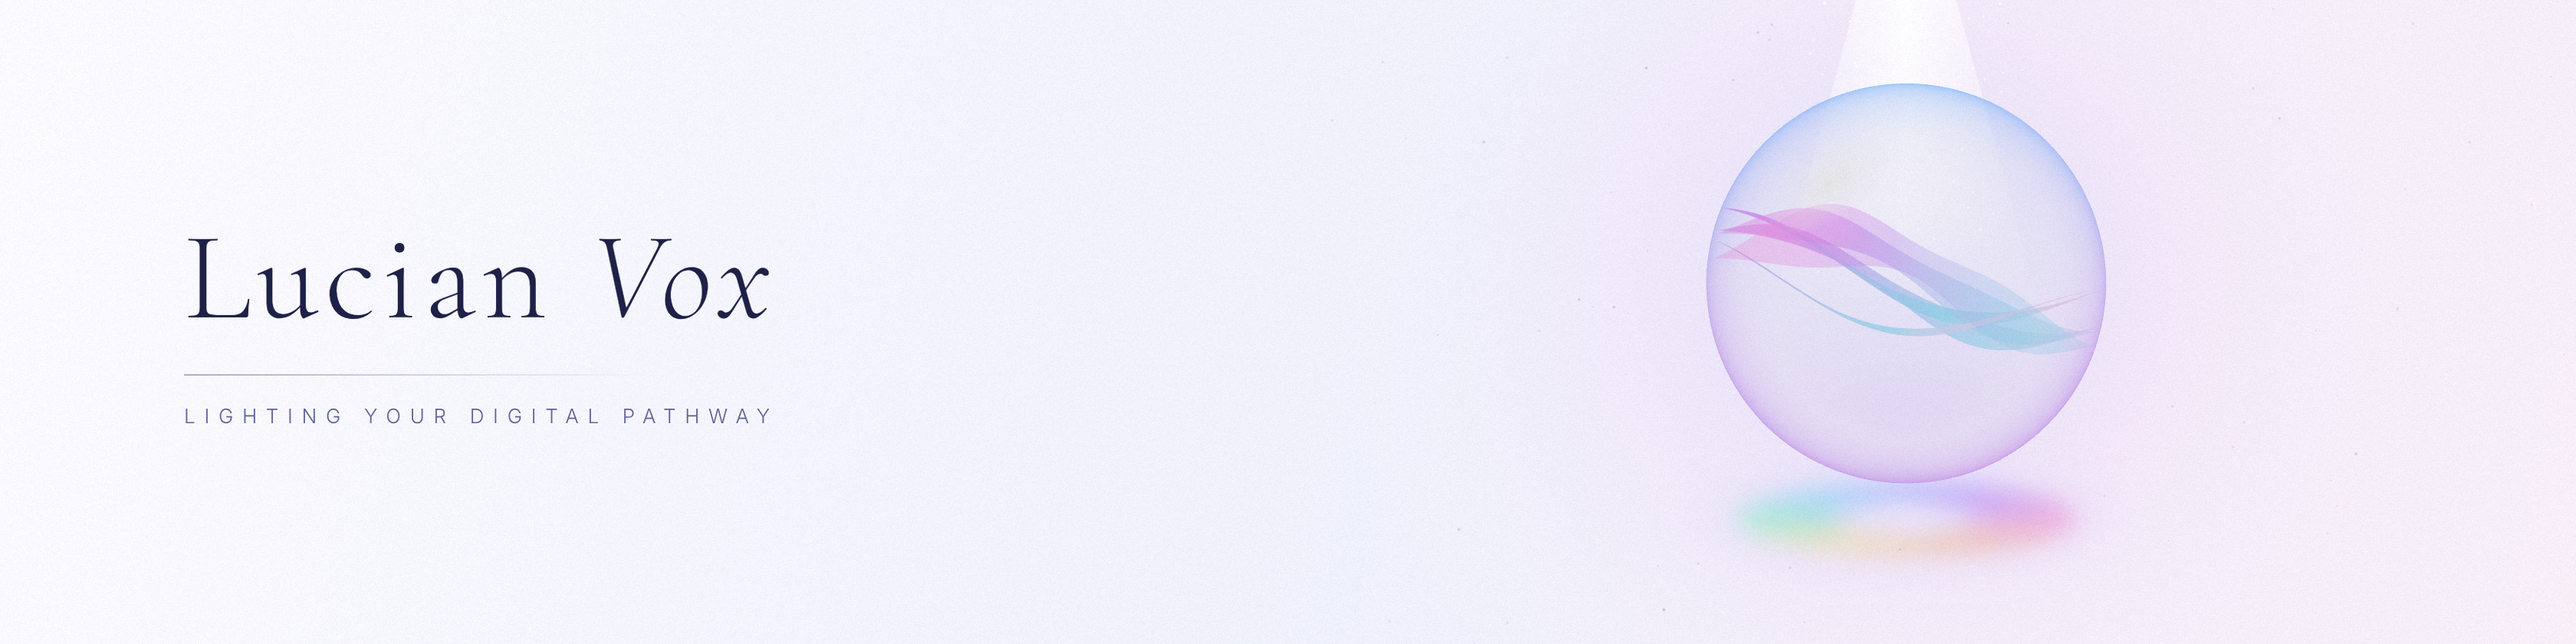
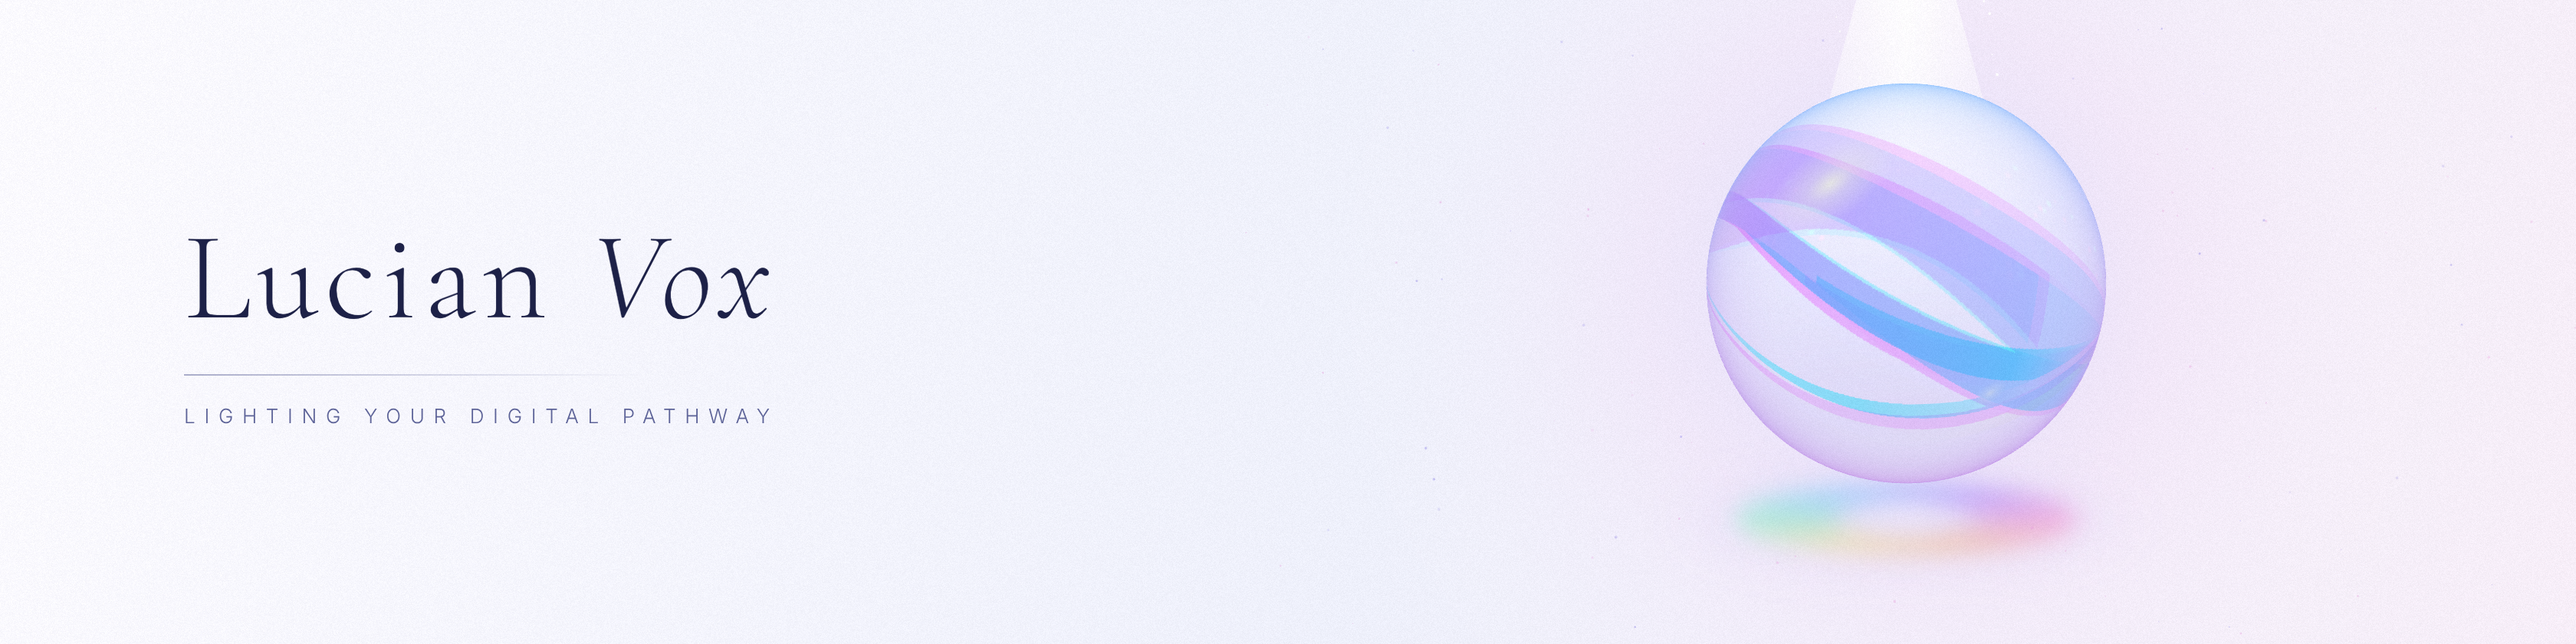
Orb: real refraction shader with chromatic dispersion
Claude-Session: https://claude.ai/code/session_01NNfMayHtDVknSJbkkHba8P

Changed region(s): [[0.6562, 0.2167, 0.8125, 0.681]]

diff --git a/rebrand/orb3d_v1.html b/rebrand/orb3d_v1.html
@@ -1,0 +1,78 @@
+<!doctype html><html><head><meta charset="utf-8">
+<link href="https://fonts.googleapis.com/css2?family=Cormorant+Garamond:ital,wght@0,300;1,300&family=Inter:wght@300&display=swap" rel="stylesheet">
+<style>body{margin:0;background:#fff}.c{position:relative;overflow:hidden;color:#1d2147;font-family:Inter,sans-serif}
+canvas{position:absolute;inset:0;width:100%;height:100%}.t{position:absolute;z-index:2}
+.n{font-family:'Cormorant Garamond',serif;font-weight:300;letter-spacing:.05em;line-height:1}
+.cap{letter-spacing:.45em;text-transform:uppercase;font-weight:300;color:#5d6398}
+.rule{height:1px;background:linear-gradient(90deg,rgba(93,99,152,.5),transparent)}</style>
+<script type="importmap">{"imports":{"three":"https://unpkg.com/three@0.160.0/build/three.module.js","three/addons/":"https://unpkg.com/three@0.160.0/examples/jsm/"}}</script>
+</head><body>
+<script type="module">
+import * as THREE from 'three';
+import {RoomEnvironment} from 'three/addons/environments/RoomEnvironment.js';
+const R=(a,b)=>a+Math.random()*(b-a);
+function bg(w,h,X,Y,r){const c=document.createElement('canvas');c.width=w;c.height=h;const x=c.getContext('2d');
+ let g=x.createLinearGradient(0,0,w,h);g.addColorStop(0,'#fbfaff');g.addColorStop(.55,'#eef0fb');g.addColorStop(1,'#f7eef8');x.fillStyle=g;x.fillRect(0,0,w,h);
+ g=x.createRadialGradient(X,Y,0,X,Y,r*3);g.addColorStop(0,'rgba(190,195,255,.5)');g.addColorStop(.45,'rgba(240,210,245,.25)');g.addColorStop(1,'rgba(255,255,255,0)');x.fillStyle=g;x.fillRect(0,0,w,h);
+ // beam
+ {const b=document.createElement('canvas');b.width=w;b.height=h;const bx=b.getContext('2d');bx.translate(X,0);let bg2=bx.createLinearGradient(-r*.7,0,r*.7,0);bg2.addColorStop(0,'rgba(255,255,255,0)');bg2.addColorStop(.5,'rgba(255,255,255,.9)');bg2.addColorStop(1,'rgba(255,255,255,0)');bx.fillStyle=bg2;bx.beginPath();bx.moveTo(-r*.25,0);bx.lineTo(r*.25,0);bx.lineTo(r*.8,Y+r*.6);bx.lineTo(-r*.8,Y+r*.6);bx.fill();
+ bx.setTransform(1,0,0,1,0,0);bx.globalCompositeOperation='destination-in';const vg=bx.createLinearGradient(0,0,0,Y+r*.6);vg.addColorStop(0,'#000');vg.addColorStop(.5,'rgba(0,0,0,.8)');vg.addColorStop(1,'rgba(0,0,0,0)');bx.fillStyle=vg;bx.fillRect(0,0,w,h);x.drawImage(b,0,0)}
+ // rainbow caustic pool under orb (light through glass)
+ const py=Y+r*1.18;x.save();x.translate(X,py);x.scale(1,.2);x.filter=`blur(${r*.06}px)`;
+ const cg=x.createConicGradient(0,0,0);['#ff7ac8','#ffb36b','#fff07a','#7affc1','#6fd3ff','#9b7bff','#ff7ac8'].forEach((c,i,a)=>cg.addColorStop(i/(a.length-1),c));
+ x.globalAlpha=.55;x.fillStyle=cg;x.beginPath();x.arc(0,0,r*.85,0,7);x.arc(0,0,r*.35,0,7,true);x.fill();
+ x.globalAlpha=1;g=x.createRadialGradient(0,0,0,0,0,r*.45);g.addColorStop(0,'rgba(255,255,255,1)');g.addColorStop(1,'rgba(255,255,255,0)');x.fillStyle=g;x.beginPath();x.arc(0,0,r*.5,0,7);x.fill();
+ x.filter=`blur(${r*.12}px)`;g=x.createRadialGradient(0,0,r*.6,0,0,r*1.2);g.addColorStop(0,'rgba(160,140,240,.18)');g.addColorStop(1,'rgba(160,140,240,0)');x.fillStyle=g;x.beginPath();x.arc(0,0,r*1.2,0,7);x.fill();x.restore();
+ for(let i=0;i<160;i++){const a=R(0,6.28),d=r*R(1.2,3.5);x.fillStyle=`rgba(${Math.random()<.5?'150,140,230':'230,160,220'},${R(.15,.5)})`;x.beginPath();x.arc(X+Math.cos(a)*d,Y+Math.sin(a)*d,R(.5,1.8),0,7);x.fill()}
+ // dust in beam
+ for(let i=0;i<90;i++){x.fillStyle=`rgba(255,255,255,${R(.4,1)})`;x.beginPath();x.arc(X+R(-r*.5,r*.5),R(0,Y),R(.6,2),0,7);x.fill()}
+ return c}
+function ribbonGeo(r,phase,tilt,width){const N=240,pos=[],col=[],idx=[];const cols=[new THREE.Color('#ff4fb4'),new THREE.Color('#8f5cff'),new THREE.Color('#2fbfff'),new THREE.Color('#ff9ad8')];
+ for(let i=0;i<=N;i++){const t=i/N,xx=-.97+t*1.94;const lim=Math.sqrt(Math.max(0,1-xx*xx))*.92;
+  const cy=Math.sin(t*5+phase)*.2+tilt,cz=Math.cos(t*4+phase)*.25*lim;const wd=width*Math.sin(t*Math.PI)*(1+.5*Math.sin(t*9+phase));
+  for(const sd of[-1,1]){let y=cy+wd*sd*.5;y=Math.max(-lim,Math.min(lim,y));pos.push(xx,y,cz+sd*wd*.3);const k=(t*2.2+phase*.4)%4,i0=Math.floor(k),f=k-i0;const c=cols[i0%4].clone().lerp(cols[(i0+1)%4],f);col.push(c.r,c.g,c.b)}
+  if(i<N){const b=i*2;idx.push(b,b+1,b+2,b+1,b+3,b+2)}}
+ const g=new THREE.BufferGeometry();g.setAttribute('position',new THREE.Float32BufferAttribute(pos,3));g.setAttribute('color',new THREE.Float32BufferAttribute(col,3));g.setIndex(idx);return g}
+const renderer=new THREE.WebGLRenderer({antialias:true,alpha:false,preserveDrawingBuffer:true});renderer.toneMapping=THREE.ACESFilmicToneMapping;renderer.toneMappingExposure=1.05;renderer.outputColorSpace=THREE.SRGBColorSpace;
+const pmrem=new THREE.PMREMGenerator(renderer);
+function envTex(){const c=document.createElement('canvas');c.width=1024;c.height=512;const x=c.getContext('2d');let g=x.createLinearGradient(0,0,0,512);g.addColorStop(0,'#ffffff');g.addColorStop(.45,'#f1eeff');g.addColorStop(.6,'#e6dcfb');g.addColorStop(1,'#f8eaf4');x.fillStyle=g;x.fillRect(0,0,1024,512);
+ // softbox windows
+ x.fillStyle='#ffffff';[[150,90,180,120],[620,70,260,90],[820,260,120,160]].forEach(([a,b,c2,d])=>{x.filter='blur(6px)';x.fillRect(a,b,c2,d)});
+ x.filter='blur(30px)';[['#ffb6e6',300,300],['#a6e6ff',520,320],['#c4b0ff',760,330]].forEach(([c2,a,b])=>{x.fillStyle=c2;x.beginPath();x.arc(a,b,80,0,7);x.fill()});
+ const t=new THREE.CanvasTexture(c);t.mapping=THREE.EquirectangularReflectionMapping;t.colorSpace=THREE.SRGBColorSpace;return pmrem.fromEquirectangular(t).texture}
+const env=envTex();
+function mk(id,W,H,ox,oy,or,html){const el=document.createElement('div');el.className='c';el.id=id;el.style.cssText=`width:${W}px;height:${H}px`;const out=document.createElement('canvas');el.appendChild(out);document.body.appendChild(el);
+ const s=2,w=W*s,h=H*s,X=w*ox,Y=h*oy,r=h*or;out.width=w;out.height=h;
+ const bgc=bg(w,h,X,Y,r);const tex=new THREE.CanvasTexture(bgc);tex.colorSpace=THREE.SRGBColorSpace;
+ renderer.setPixelRatio(1);renderer.setSize(w,h,false);
+ const scene=new THREE.Scene();scene.background=tex;scene.environment=env;
+ const cam=new THREE.OrthographicCamera(0,w,0,-h,-5000,5000);cam.position.z=2000;
+ const grp=new THREE.Group();grp.position.set(X,-Y,0);grp.scale.setScalar(r);scene.add(grp);
+ const glass=new THREE.MeshPhysicalMaterial({color:0xf4f2ff,metalness:0,roughness:0,transparent:true,opacity:.28,iridescence:1,iridescenceIOR:1.4,iridescenceThicknessRange:[250,650],clearcoat:1,clearcoatRoughness:0,envMapIntensity:1.6,depthWrite:false,side:THREE.FrontSide});
+ const back=new THREE.MeshPhysicalMaterial({color:0xe9e4ff,roughness:0,transparent:true,opacity:.22,iridescence:1,iridescenceThicknessRange:[300,700],side:THREE.BackSide,depthWrite:false,envMapIntensity:1.4});
+ const bm=new THREE.Mesh(new THREE.SphereGeometry(1,128,96),back);bm.renderOrder=1;grp.add(bm);
+ const fm=new THREE.Mesh(new THREE.SphereGeometry(1,128,96),glass);fm.renderOrder=20;grp.add(fm);
+ const rim=new THREE.ShaderMaterial({transparent:true,depthWrite:false,blending:THREE.NormalBlending,uniforms:{},vertexShader:'varying vec3 n;varying vec3 v;void main(){n=normalize(normalMatrix*normal);vec4 p=modelViewMatrix*vec4(position,1.);v=normalize(-p.xyz);gl_Position=projectionMatrix*p;}',
+  fragmentShader:'varying vec3 n;varying vec3 v;void main(){float e=1.-abs(n.z);float f=pow(e,2.2)*.75+smoothstep(.9,1.,e)*.3;vec3 c=mix(vec3(.95,.55,.85),vec3(.45,.7,1.),n.y*.5+.5);c=mix(c,vec3(.55,.5,.95),smoothstep(.2,-.8,n.y)*.5);float sh=smoothstep(.3,-1.,n.y)*.18*(1.-e);gl_FragColor=vec4(mix(c,vec3(.6,.55,.9),sh),max(f,sh));}'});
+ const rmM=new THREE.Mesh(new THREE.SphereGeometry(1.001,128,96),rim);rmM.renderOrder=21;grp.add(rmM);
+ const rm=new THREE.MeshBasicMaterial({vertexColors:true,transparent:true,opacity:.5,side:THREE.DoubleSide,depthWrite:false,depthTest:false});
+ [[0,.0,.36,.35],[.5,.03,.22,.5],[1.0,-.03,.13,.7],[1.6,.05,.06,.9],[2.4,-.06,.03,.8]].forEach(([p,t,wd,op])=>{const mm=rm.clone();mm.opacity=op;const m=new THREE.Mesh(ribbonGeo(1,p,t,wd),mm);m.renderOrder=10;m.rotation.set(.15,0,-.14);grp.add(m)});
+ // soft specular highlight
+ const hc=document.createElement('canvas');hc.width=hc.height=256;const hx=hc.getContext('2d');const hg=hx.createRadialGradient(128,128,0,128,128,128);hg.addColorStop(0,'rgba(255,255,255,1)');hg.addColorStop(.35,'rgba(255,255,255,.45)');hg.addColorStop(1,'rgba(255,255,255,0)');hx.fillStyle=hg;hx.fillRect(0,0,256,256);
+ const hs=new THREE.Mesh(new THREE.PlaneGeometry(.75,.36),new THREE.MeshBasicMaterial({map:new THREE.CanvasTexture(hc),transparent:true,depthTest:false,depthWrite:false}));hs.position.set(-.38,.5,1.1);hs.rotation.z=.6;hs.renderOrder=30;grp.add(hs);
+ const hs2=hs.clone();hs2.scale.set(.25,.25,1);hs2.position.set(.42,-.55,1.1);hs2.material=hs.material.clone();hs2.material.opacity=.5;grp.add(hs2);
+ const soft=new THREE.MeshBasicMaterial({vertexColors:true,transparent:true,opacity:.7,side:THREE.DoubleSide,depthWrite:false,depthTest:false});
+ 
+ renderer.render(scene,cam);
+ const x=out.getContext('2d');x.drawImage(renderer.domElement,0,0);
+ const d=x.getImageData(0,0,w,h);for(let i=0;i<d.data.length;i+=4){const n=(Math.random()-.5)*10;d.data[i]+=n;d.data[i+1]+=n;d.data[i+2]+=n}x.putImageData(d,0,0);
+ if(html)el.insertAdjacentHTML('beforeend',html);tex.dispose()}
+const L=s=>`<div class="n" style="font-size:${s}px">Lucian <i>Vox</i></div>`;
+const TAG='Lighting your digital pathway';
+mk('banner_large',1680,420,.74,.44,.31,`<div class="t" style="left:120px;top:140px">${L(82)}<div class="rule" style="width:300px;margin:22px 0 18px"></div><div class="cap" style="font-size:13px">${TAG}</div></div>`);
+mk('banner_mini',600,150,.8,.44,.3,`<div class="t" style="left:46px;top:46px">${L(36)}<div class="cap" style="font-size:7px;margin-top:12px">${TAG}</div></div>`);
+mk('icon',500,500,.5,.44,.3,'');
+mk('icon_mono',500,500,.5,.46,.32,`<div class="t n" style="left:0;right:0;top:${500*.46-64}px;text-align:center;font-size:128px;color:#fff;text-shadow:0 0 10px rgba(90,70,200,.9),0 0 30px rgba(120,90,230,.7)"><i>V</i></div>`);
+mk('social_header',750,250,.5,.38,.24,`<div class="t" style="width:100%;bottom:20px;text-align:center"><div class="n" style="font-size:30px">Lucian <i>Vox</i></div><div class="cap" style="font-size:8px;margin-top:8px">${TAG}</div></div>`);
+window.DONE=1;
+</script></body></html>

diff --git a/rebrand/orb3d.html b/rebrand/orb3d.html
@@ -48,22 +48,35 @@ function mk(id,W,H,ox,oy,or,html){const el=document.createElement('div');el.clas
  const scene=new THREE.Scene();scene.background=tex;scene.environment=env;
  const cam=new THREE.OrthographicCamera(0,w,0,-h,-5000,5000);cam.position.z=2000;
  const grp=new THREE.Group();grp.position.set(X,-Y,0);grp.scale.setScalar(r);scene.add(grp);
- const glass=new THREE.MeshPhysicalMaterial({color:0xf4f2ff,metalness:0,roughness:0,transparent:true,opacity:.28,iridescence:1,iridescenceIOR:1.4,iridescenceThicknessRange:[250,650],clearcoat:1,clearcoatRoughness:0,envMapIntensity:1.6,depthWrite:false,side:THREE.FrontSide});
+ const glass=new THREE.MeshPhysicalMaterial({color:0xf4f2ff,metalness:0,roughness:0,transparent:true,opacity:.14,iridescence:1,iridescenceIOR:1.4,iridescenceThicknessRange:[250,650],clearcoat:1,clearcoatRoughness:0,envMapIntensity:1.6,depthWrite:false,side:THREE.FrontSide});
  const back=new THREE.MeshPhysicalMaterial({color:0xe9e4ff,roughness:0,transparent:true,opacity:.22,iridescence:1,iridescenceThicknessRange:[300,700],side:THREE.BackSide,depthWrite:false,envMapIntensity:1.4});
- const bm=new THREE.Mesh(new THREE.SphereGeometry(1,128,96),back);bm.renderOrder=1;grp.add(bm);
- const fm=new THREE.Mesh(new THREE.SphereGeometry(1,128,96),glass);fm.renderOrder=20;grp.add(fm);
+ const sceneA=new THREE.Scene();sceneA.background=tex;const grpA=new THREE.Group();grpA.position.copy(grp.position);grpA.scale.copy(grp.scale);sceneA.add(grpA);
+ const rt=new THREE.WebGLRenderTarget(w*2,h*2);rt.texture.colorSpace=THREE.SRGBColorSpace;rt.texture.generateMipmaps=false;
+ const refr=new THREE.ShaderMaterial({toneMapped:false,uniforms:{t:{value:rt.texture},res:{value:new THREE.Vector2(w,h)},rpx:{value:r}},
+  vertexShader:'varying vec3 vN;void main(){vN=normalize(normalMatrix*normal);gl_Position=projectionMatrix*modelViewMatrix*vec4(position,1.);}',
+  fragmentShader:`uniform sampler2D t;uniform vec2 res;uniform float rpx;varying vec3 vN;
+  vec3 smp(float ior){vec3 n=normalize(vN);vec3 d=refract(vec3(0.,0.,-1.),n,1./ior);d=refract(d,-n*vec3(1.,1.,1.),ior);
+   float z=n.z;vec2 off=-n.xy*rpx*(1.-1./ior)*2.2*(0.6+0.4*z);return texture2D(t,(gl_FragCoord.xy+off)/res).rgb;}
+  void main(){vec3 n=normalize(vN);float r=smp(1.45).r,g=smp(1.5).g,b=smp(1.56).b;vec3 c=vec3(r,g,b);
+   float e=1.-n.z;c=mix(c,vec3(.93,.92,1.),.06+.25*pow(e,3.));c*=1.0+.06*n.y;
+   gl_FragColor=vec4(c,1.);
+   #include <colorspace_fragment>
+  }`});
+ const rs=new THREE.Mesh(new THREE.SphereGeometry(1,160,120),refr);rs.renderOrder=5;grp.add(rs);
+ const fm=new THREE.Mesh(new THREE.SphereGeometry(1,128,96),glass);fm.renderOrder=20;
  const rim=new THREE.ShaderMaterial({transparent:true,depthWrite:false,blending:THREE.NormalBlending,uniforms:{},vertexShader:'varying vec3 n;varying vec3 v;void main(){n=normalize(normalMatrix*normal);vec4 p=modelViewMatrix*vec4(position,1.);v=normalize(-p.xyz);gl_Position=projectionMatrix*p;}',
   fragmentShader:'varying vec3 n;varying vec3 v;void main(){float e=1.-abs(n.z);float f=pow(e,2.2)*.75+smoothstep(.9,1.,e)*.3;vec3 c=mix(vec3(.95,.55,.85),vec3(.45,.7,1.),n.y*.5+.5);c=mix(c,vec3(.55,.5,.95),smoothstep(.2,-.8,n.y)*.5);float sh=smoothstep(.3,-1.,n.y)*.18*(1.-e);gl_FragColor=vec4(mix(c,vec3(.6,.55,.9),sh),max(f,sh));}'});
  const rmM=new THREE.Mesh(new THREE.SphereGeometry(1.001,128,96),rim);rmM.renderOrder=21;grp.add(rmM);
  const rm=new THREE.MeshBasicMaterial({vertexColors:true,transparent:true,opacity:.5,side:THREE.DoubleSide,depthWrite:false,depthTest:false});
- [[0,.0,.36,.35],[.5,.03,.22,.5],[1.0,-.03,.13,.7],[1.6,.05,.06,.9],[2.4,-.06,.03,.8]].forEach(([p,t,wd,op])=>{const mm=rm.clone();mm.opacity=op;const m=new THREE.Mesh(ribbonGeo(1,p,t,wd),mm);m.renderOrder=10;m.rotation.set(.15,0,-.14);grp.add(m)});
+ [[0,.0,.36,.35],[.5,.03,.22,.5],[1.0,-.03,.13,.7],[1.6,.05,.06,.9],[2.4,-.06,.03,.8]].forEach(([p,t,wd,op])=>{const mm=rm.clone();mm.opacity=op;mm.depthTest=true;mm.depthWrite=true;mm.side=THREE.DoubleSide;const m=new THREE.Mesh(ribbonGeo(1,p,t,wd),mm);m.rotation.set(.15,0,-.14);grpA.add(m)});
  // soft specular highlight
  const hc=document.createElement('canvas');hc.width=hc.height=256;const hx=hc.getContext('2d');const hg=hx.createRadialGradient(128,128,0,128,128,128);hg.addColorStop(0,'rgba(255,255,255,1)');hg.addColorStop(.35,'rgba(255,255,255,.45)');hg.addColorStop(1,'rgba(255,255,255,0)');hx.fillStyle=hg;hx.fillRect(0,0,256,256);
  const hs=new THREE.Mesh(new THREE.PlaneGeometry(.75,.36),new THREE.MeshBasicMaterial({map:new THREE.CanvasTexture(hc),transparent:true,depthTest:false,depthWrite:false}));hs.position.set(-.38,.5,1.1);hs.rotation.z=.6;hs.renderOrder=30;grp.add(hs);
  const hs2=hs.clone();hs2.scale.set(.25,.25,1);hs2.position.set(.42,-.55,1.1);hs2.material=hs.material.clone();hs2.material.opacity=.5;grp.add(hs2);
  const soft=new THREE.MeshBasicMaterial({vertexColors:true,transparent:true,opacity:.7,side:THREE.DoubleSide,depthWrite:false,depthTest:false});
  
- renderer.render(scene,cam);
+ renderer.setRenderTarget(rt);renderer.render(sceneA,cam);renderer.setRenderTarget(null);
+ renderer.render(scene,cam);rt.dispose();
  const x=out.getContext('2d');x.drawImage(renderer.domElement,0,0);
  const d=x.getImageData(0,0,w,h);for(let i=0;i<d.data.length;i+=4){const n=(Math.random()-.5)*10;d.data[i]+=n;d.data[i+1]+=n;d.data[i+2]+=n}x.putImageData(d,0,0);
  if(html)el.insertAdjacentHTML('beforeend',html);tex.dispose()}
